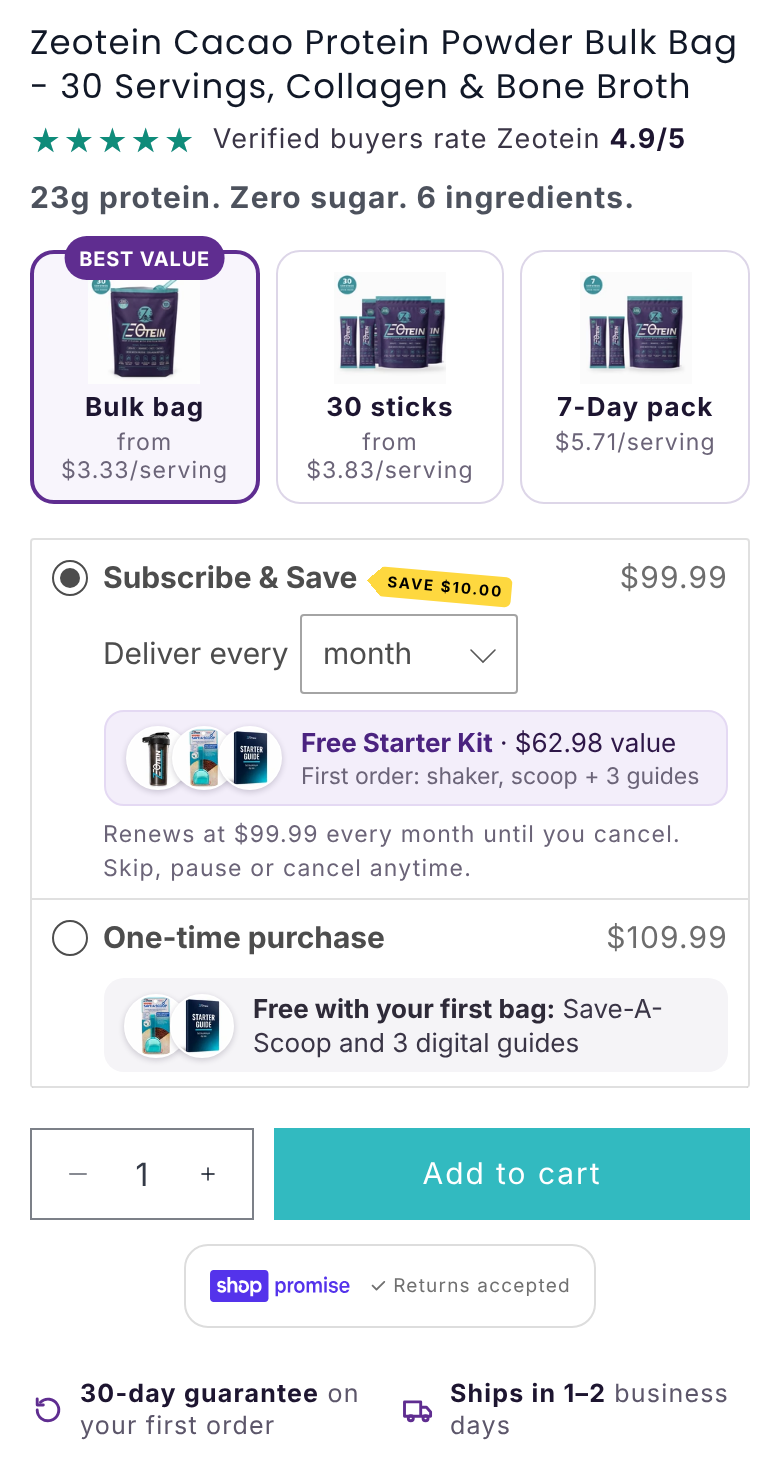
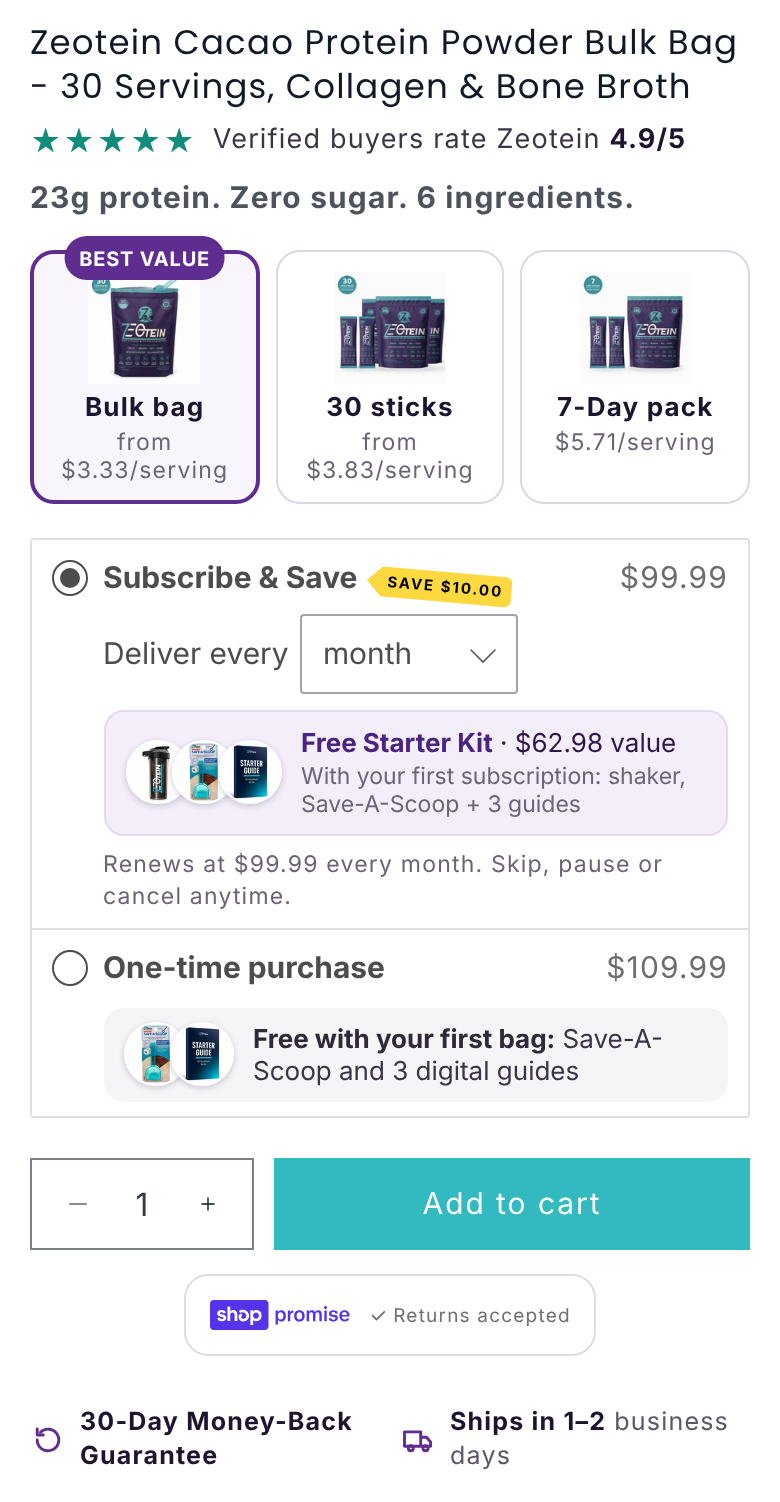
Product pages: shorter renewal line, "first subscription" gift wording
- Renewal: "Renews at $X every Y. Skip, pause or cancel anytime." (no
  "until you cancel").
- Gift line: "With your first subscription: shaker, Save-A-Scoop + 3 guides".
- Guarantee row uses the live wording, now also in the preview theme.

Claude-Session: https://claude.ai/code/session_01D28ukcRSP8zRc76PSXbZSJ

diff --git a/audit/theme-fixes/pdp-v2-2026-11-13/README.md b/audit/theme-fixes/pdp-v2-2026-11-13/README.md
@@ -76,3 +76,9 @@ The live copies of all five templates are unchanged since Nov 5 (same checksums 
 - **Guarantee wording:** the trust row now uses the live wording exactly: "30-Day Money-Back Guarantee". It's in the repo snippet (md5 `6d68d815e698234d68ad22e2105dc8b6`), which is the file to paste live. The preview theme still shows the earlier "30-day guarantee on your first order" until the Shopify connector is re-authorized and the snippet is re-uploaded. Everything else on the pages, including the "The guarantee covers your first order, one supply per customer" line, the FAQ answer and the refund policy link, is untouched. Single-ingredient pages carry no guarantee wording, live or preview.
 - **Prices:** checked against the public storefront on Nov 14. Every variant price and subscription price matches the pre-work values: bag $109.99 / $99.99, 30 sticks $134.99 / $114.99, 7-Day $39.99, cacao powder $17.99 / $28.99 / $48.99, zeolite $29.99 / $64.99 / $79.99, Starter Kit funnel $93.49 / $76.99, shaker $15.99, Save-A-Scoop $6.99, guides $12 / $14 / $14. No product, price, Seal plan or discount was edited in this work.
 - **"$150" lines on the 9 single-ingredient templates:** Zeus is changing these in the theme editor (live + BF). Not touched here. When the v2 cacao powder and zeolite templates go live, they hide that line and show the $130 row from the snippet instead.
+
+## Nov 14 (round 4, Dana)
+- **Renewal line** under Subscribe & Save: "Renews at $99.99 every month. Skip, pause or cancel anytime." The amount and interval follow the selected plan, and "until you cancel" is gone. It's still Seal's own plan text, just shortened in the browser. The plans themselves are unchanged.
+- **Gift line:** "Free Starter Kit · $62.98 value" / "With your first subscription: shaker, Save-A-Scoop + 3 guides" (sticks: "shaker + 3 guides", $55.99). One-time keeps "Free with your first bag: Save-A-Scoop and 3 digital guides".
+- **Guarantee row:** "30-Day Money-Back Guarantee", word for word as live. It's now in the preview too, since the Shopify connector was re-authorized.
+- Preview snippet = repo snippet, md5 `aa88b8d6ce92467f3efea4358fd9a1d5`. Checked on bag, 30 sticks, 7-Day, the Starter Kit funnel bag and cacao powder: no script errors. The funnel product's own Seal text ("Your first order comes with a free Starter Kit…") isn't touched.
